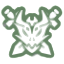
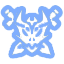
feat: 마커 수집 시스템 구현 및 로컬 스토리지 연동
- 마커 클릭 시 수집 상태(Collected)를 토글하는 기능 추가
- Zustand Persist 미들웨어를 사용하여 수집 데이터를 로컬 스토리지에 저장
- 수집된 마커는 흑백/투명도 처리하여 시각적 구분
- 사이드바 필터 항목 옆에 수집 현황(진척도) 표시 기능 구현
- 월드보스, 퍼즐 등 집계 가능한(Countable) 타입 정의

diff --git a/src/store/useMapStore.ts b/src/store/useMapStore.ts
@@ -1,41 +1,90 @@
 import { create } from "zustand";
+import { createJSONStorage, persist } from "zustand/middleware";
 
-import { FILTER_DATA } from "../features/map/data/mapFilters";
+import { COUNTABLE_TYPES, FILTER_DATA } from "../features/map/data/mapFilters";
+import { MAP_MARKERS } from "../features/map/data/mapMarkers";
 
 interface MapState {
   selectedFilters: Set<string>;
   toggleFilter: (id: string) => void;
   isAllVisible: () => boolean;
   setAllFilters: (enable: boolean) => void;
+  collectedMarkers: string[];
+  toggleCollected: (markerId: string) => void;
+  getProgress: (type?: string) => { current: number; total: number };
 }
 
-export const useMapStore = create<MapState>((set, get) => ({
-  selectedFilters: new Set(
-    FILTER_DATA.flatMap((category) => category.items.map((item) => item.id)),
+export const useMapStore = create<MapState>()(
+  persist(
+    (set, get) => ({
+      selectedFilters: new Set(
+        FILTER_DATA.flatMap((category) => category.items.map((item) => item.id)),
+      ),
+
+      toggleFilter: (id) =>
+        set((state) => {
+          const newSet = new Set(state.selectedFilters);
+          if (newSet.has(id)) {
+            newSet.delete(id);
+          } else {
+            newSet.add(id);
+          }
+          return { selectedFilters: newSet };
+        }),
+
+      isAllVisible: () => {
+        const totalCount = FILTER_DATA.reduce((acc, cur) => acc + cur.items.length, 0);
+        return get().selectedFilters.size === totalCount;
+      },
+
+      setAllFilters: (enable) =>
+        set(() => {
+          if (enable) {
+            const allIds = FILTER_DATA.flatMap((category) => category.items.map((item) => item.id));
+            return { selectedFilters: new Set(allIds) };
+          }
+          return { selectedFilters: new Set() };
+        }),
+
+      collectedMarkers: [],
+
+      toggleCollected: (markerId) =>
+        set((state) => {
+          const targetMarker = MAP_MARKERS.find((m) => m.id === markerId);
+
+          if (!targetMarker || !COUNTABLE_TYPES.has(targetMarker.type)) {
+            return state;
+          }
+
+          const list = state.collectedMarkers;
+          if (list.includes(markerId)) {
+            return { collectedMarkers: list.filter((id) => id !== markerId) };
+          } else {
+            return { collectedMarkers: [...list, markerId] };
+          }
+        }),
+
+      getProgress: (targetType) => {
+        const { collectedMarkers } = get();
+
+        const targetMarkers = MAP_MARKERS.filter((m) => {
+          const isCountable = COUNTABLE_TYPES.has(m.type);
+          const isTypeMatch = targetType ? m.type === targetType : true;
+          return isCountable && isTypeMatch;
+        });
+
+        const total = targetMarkers.length;
+
+        const current = targetMarkers.filter((m) => collectedMarkers.includes(m.id)).length;
+
+        return { current, total };
+      },
+    }),
+    {
+      name: "map-storage",
+      storage: createJSONStorage(() => localStorage),
+
+      partialize: (state) => ({ collectedMarkers: state.collectedMarkers }),
+    },
   ),
-
-  toggleFilter: (id) =>
-    set((state) => {
-      const newSet = new Set(state.selectedFilters);
-      if (newSet.has(id)) {
-        newSet.delete(id);
-      } else {
-        newSet.add(id);
-      }
-      return { selectedFilters: newSet };
-    }),
-
-  isAllVisible: () => {
-    const totalCount = FILTER_DATA.reduce((acc, cur) => acc + cur.items.length, 0);
-    return get().selectedFilters.size === totalCount;
-  },
-
-  setAllFilters: (enable) =>
-    set(() => {
-      if (enable) {
-        const allIds = FILTER_DATA.flatMap((category) => category.items.map((item) => item.id));
-        return { selectedFilters: new Set(allIds) };
-      }
-      return { selectedFilters: new Set() };
-    }),
-}));
+);

diff --git a/src/features/map/components/MapMarker.tsx b/src/features/map/components/MapMarker.tsx
@@ -7,9 +7,11 @@ import type { IconType } from "react-icons";
 interface IMapMarkerProps {
   position: [number, number];
   icon: string | IconType;
+  isCollected: boolean;
+  onClick?: (() => void) | undefined;
 }
 
-function MapMarker({ position, icon }: IMapMarkerProps) {
+function MapMarker({ position, icon, isCollected, onClick }: IMapMarkerProps) {
   const [currentSize, setCurrentSize] = useState(40);
 
   useMapEvents({
@@ -22,9 +24,31 @@ function MapMarker({ position, icon }: IMapMarkerProps) {
   });
 
   const customIcon = useMemo(() => {
+    const commonStyle = {
+      opacity: isCollected ? 0.8 : 1,
+      filter: isCollected
+        ? "grayscale(100%) drop-shadow(1px 1px 1px rgba(0,0,0,0.3))"
+        : "drop-shadow(3px 3px 3px rgba(0,0,0,0.5))",
+      transition: "all 0.3s ease",
+    };
+
     if (typeof icon === "string") {
-      return new L.Icon({
-        iconUrl: icon,
+      const imgHtml = renderToStaticMarkup(
+        <img
+          src={icon}
+          alt="marker"
+          style={{
+            ...commonStyle,
+            width: `${currentSize}px`,
+            height: `${currentSize}px`,
+            objectFit: "contain",
+          }}
+        />,
+      );
+
+      return new L.DivIcon({
+        html: imgHtml,
+        className: "",
         iconSize: [currentSize, currentSize],
         iconAnchor: [currentSize / 2, currentSize],
       });
@@ -34,11 +58,13 @@ function MapMarker({ position, icon }: IMapMarkerProps) {
       const iconHtml = renderToStaticMarkup(
         <div
           style={{
-            color: "#80AEFE",
+            ...commonStyle,
             display: "flex",
             alignItems: "center",
             justifyContent: "center",
-            filter: "drop-shadow(2px 2px 2px rgba(0,0,0,0.5))",
+            color: "#80AEFE",
+            width: `${currentSize - 8}px`,
+            height: `${currentSize - 8}px`,
           }}
         >
           <IconComponent size={currentSize} />
@@ -47,14 +73,25 @@ function MapMarker({ position, icon }: IMapMarkerProps) {
 
       return new L.DivIcon({
         html: iconHtml,
-        className: "custom-react-marker",
+        className: "",
         iconSize: [currentSize - 8, currentSize - 8],
-        iconAnchor: [(currentSize - 8) / 2, currentSize - 8],
+        iconAnchor: [currentSize / 2, currentSize / 2],
       });
     }
-  }, [icon, currentSize]);
+  }, [icon, currentSize, isCollected]);
 
-  return <Marker position={position} icon={customIcon} />;
+  return (
+    <Marker
+      position={position}
+      icon={customIcon}
+      eventHandlers={{
+        click: (e) => {
+          L.DomEvent.stopPropagation(e.originalEvent);
+          if (onClick) onClick();
+        },
+      }}
+    />
+  );
 }
 
 export default MapMarker;

diff --git a/src/features/map/data/mapMarkers.ts b/src/features/map/data/mapMarkers.ts
@@ -33,11 +33,11 @@ export const MAP_MARKERS: IMarkerData[] = [
   { id: "statue_7", type: "statue", position: [1900, 3814] },
   { id: "statue_8", type: "statue", position: [1793, 2884] },
 
-  { id: "merchant_1", type: "merchant", position: [3116, 2794] },
-  { id: "merchant_2", type: "merchant", position: [3710, 2725] },
-  { id: "merchant_3", type: "merchant", position: [3503, 2590] },
-  { id: "merchant_4", type: "merchant", position: [3649, 2613] },
-  { id: "merchant_5", type: "merchant", position: [1863, 3531] },
+  { id: "merchant_1", type: "merchant", position: [3116, 2794], icon: "merchant-icon.png" },
+  { id: "merchant_2", type: "merchant", position: [3710, 2725], icon: "merchant-icon.png" },
+  { id: "merchant_3", type: "merchant", position: [3503, 2590], icon: "merchant-icon.png" },
+  { id: "merchant_4", type: "merchant", position: [3649, 2613], icon: "merchant-icon.png" },
+  { id: "merchant_5", type: "merchant", position: [1863, 3531], icon: "merchant-icon.png" },
 
   { id: "windmill_1", type: "windmill", position: [4939, 5142] },
   { id: "windmill_2", type: "windmill", position: [4825, 2668] },
@@ -79,7 +79,7 @@ export const MAP_MARKERS: IMarkerData[] = [
   { id: "world_boss_1", type: "world_boss", position: [6247, 5592] },
   { id: "world_boss_2", type: "world_boss", position: [5349, 6008] },
   { id: "world_boss_3", type: "world_boss", position: [4925, 2758] },
-  { id: "world_boss_4", type: "world_boss", position: [4025, 4895] },
+  { id: "world_boss_4", type: "world_boss", position: [4053, 4918] },
   { id: "world_boss_5", type: "world_boss", position: [2311, 3152] },
 
   // 탐험/보물
@@ -119,6 +119,7 @@ export const MAP_MARKERS: IMarkerData[] = [
   { id: "marmot_34", type: "marmot", position: [2942, 1981] },
   { id: "marmot_35", type: "marmot", position: [3314, 2958] },
   { id: "marmot_36", type: "marmot", position: [3129, 2777] },
+  { id: "marmot_37", type: "marmot", position: [3693, 3994] },
 
   { id: "puzzle_1", type: "puzzle", position: [1537, 2306] },
   { id: "puzzle_2", type: "puzzle", position: [1595, 3244] },
@@ -141,7 +142,7 @@ export const MAP_MARKERS: IMarkerData[] = [
   { id: "puzzle_19", type: "puzzle", position: [3382, 4474] },
   { id: "puzzle_20", type: "puzzle", position: [3436, 4059] },
   { id: "puzzle_21", type: "puzzle", position: [3625, 4897] },
-  { id: "puzzle_22", type: "puzzle", position: [4007, 4844] },
+  { id: "puzzle_22", type: "puzzle", position: [4051, 4896] },
   { id: "puzzle_23", type: "puzzle", position: [4100, 4201] },
   { id: "puzzle_24", type: "puzzle", position: [3819, 3838] },
   { id: "puzzle_25", type: "puzzle", position: [4006, 3195] },

diff --git a/src/features/map/components/MapFilter.tsx b/src/features/map/components/MapFilter.tsx
@@ -1,7 +1,7 @@
 import { useState } from "react";
 import styled, { css } from "styled-components";
 import { FaCheck, FaChevronDown, FaChevronUp, FaRegSquare } from "react-icons/fa";
-import { FILTER_DATA, type IFilterItem } from "../data/mapFilters";
+import { COUNTABLE_TYPES, FILTER_DATA, type IFilterItem } from "../data/mapFilters";
 import { useMapStore } from "../../../store/useMapStore";
 
 const FilterWrapper = styled.div`
@@ -118,7 +118,7 @@ const ItemLabel = styled.span`
 `;
 
 function MapFilter() {
-  const { selectedFilters, toggleFilter, isAllVisible, setAllFilters } = useMapStore();
+  const { selectedFilters, toggleFilter, isAllVisible, setAllFilters, getProgress } = useMapStore();
   const [openCategories, setOpenCategories] = useState<Set<string>>(
     new Set(FILTER_DATA.map((d) => d.category)),
   );
@@ -189,6 +189,11 @@ function MapFilter() {
             <GridContainer $isOpen={isOpen}>
               {group.items.map((item) => {
                 const isActive = selectedFilters.has(item.id);
+                const isCountable = COUNTABLE_TYPES.has(item.id);
+
+                const { current, total } = isCountable
+                  ? getProgress(item.id)
+                  : { current: 0, total: 0 };
 
                 return (
                   <FilterItemButton
@@ -198,7 +203,21 @@ function MapFilter() {
                     title={item.label}
                   >
                     {renderIcon(item)}
-                    <ItemLabel>{item.label}</ItemLabel>
+                    <ItemLabel>
+                      {item.label}
+                      {isCountable && total > 0 && (
+                        <span
+                          style={{
+                            fontSize: "9px",
+                            color: current === total ? "#4caf50" : "#888",
+                            marginLeft: "2px",
+                            fontWeight: "bold",
+                          }}
+                        >
+                          ({current}/{total})
+                        </span>
+                      )}
+                    </ItemLabel>
                   </FilterItemButton>
                 );
               })}

diff --git a/src/features/map/components/GameMap.tsx b/src/features/map/components/GameMap.tsx
@@ -9,7 +9,7 @@ import LocationLogger from "./LocationLogger";
 import CustomZoomControl from "./CustomZoomControl";
 import { useMapStore } from "../../../store/useMapStore";
 import { MAP_MARKERS } from "../data/mapMarkers";
-import { FILTER_DATA } from "../data/mapFilters";
+import { COUNTABLE_TYPES, FILTER_DATA } from "../data/mapFilters";
 
 const WorldMapContainer = styled.div`
   display: flex;
@@ -53,7 +53,7 @@ const getIconForType = (type: string) => {
 
 export function GameMap() {
   const [map, setMap] = useState<L.Map | null>(null);
-  const { selectedFilters } = useMapStore();
+  const { selectedFilters, collectedMarkers, toggleCollected } = useMapStore();
 
   return (
     <WorldMapContainer>
@@ -80,7 +80,18 @@ export function GameMap() {
 
           const iconUrl = marker.icon || getIconForType(marker.type);
 
-          return <MapMarker key={marker.id} position={marker.position} icon={iconUrl} />;
+          const isCollected = collectedMarkers.includes(marker.id);
+          const isCountable = COUNTABLE_TYPES.has(marker.type);
+
+          return (
+            <MapMarker
+              key={marker.id}
+              position={marker.position}
+              icon={iconUrl}
+              isCollected={isCollected}
+              onClick={isCountable ? () => toggleCollected(marker.id) : undefined}
+            />
+          );
         })}
       </StyledMapContainer>
       <ControllerWrapper>{map && <CustomZoomControl map={map} />}</ControllerWrapper>

diff --git a/src/features/map/data/mapFilters.ts b/src/features/map/data/mapFilters.ts
@@ -13,13 +13,23 @@ export interface ICategoryItem {
   items: IFilterItem[];
 }
 
+export const COUNTABLE_TYPES = new Set([
+  "world_boss",
+  "puzzle",
+  "marmot",
+  // "chest",
+  // "special_chest",
+  // "squirrel",
+  // "bird_egg"
+]);
+
 export const FILTER_DATA: ICategoryItem[] = [
   {
     category: "이동/거점",
     items: [
       { id: "warp", label: "워프포인트", icon: "warp-point-icon-on.png" },
       { id: "statue", label: "여신상", icon: "statue-icon.png" },
-      { id: "merchant", label: "상점", icon: "merchant-icon.png" },
+      { id: "merchant", label: "상점", icon: "merchant-icon-on.png" },
       { id: "windmill", label: "에오나", icon: "windmill-icon.png" },
       { id: "building", label: "건물", icon: FaBuildingColumns },
       { id: "workshop", label: "공방", icon: GiBlacksmith },
